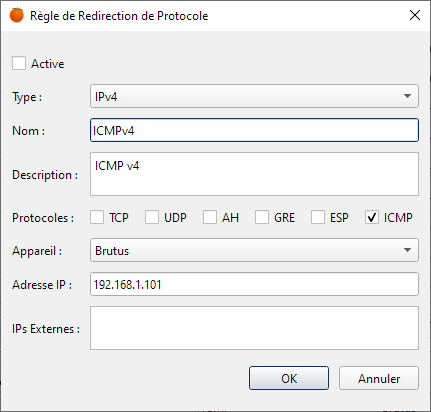
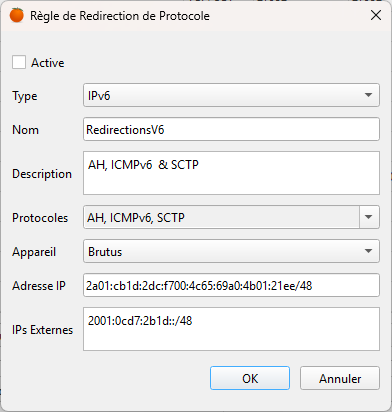
Full protocol list allowed for protocol fwd

diff --git a/src/LiveboxMonitor/dlg/LmPtfRule.py b/src/LiveboxMonitor/dlg/LmPtfRule.py
@@ -8,10 +8,11 @@ from LiveboxMonitor.lang.LmLanguages import get_ptf_rule_label as lx, get_nat_pa
 
 # ################################ PTF rule dialog ################################
 class PtfRuleDialog(QtWidgets.QDialog):
-    def __init__(self, rule=None, parent=None):
+    def __init__(self, rule, parent):
         super().__init__(parent)
         self.resize(390, 380)
 
+        self._app = parent
         self._ignore_signal = False
 
         self._enable_checkbox = QtWidgets.QCheckBox(lx("Enabled"), objectName="enableCheckbox")
@@ -31,26 +32,9 @@ class PtfRuleDialog(QtWidgets.QDialog):
         self._desc_edit.setLineNumber(2)
 
         protocols_label = QtWidgets.QLabel(lx("Protocols"), objectName="protocolsLabel")
-        self._tcp_checkbox = QtWidgets.QCheckBox(lx("TCP"), objectName="tcpCheckbox")
-        self._tcp_checkbox.clicked.connect(self.protocol_click)
-        self._udp_checkbox = QtWidgets.QCheckBox(lx("UDP"), objectName="udpCheckbox")
-        self._udp_checkbox.clicked.connect(self.protocol_click)
-        self._ah_checkbox = QtWidgets.QCheckBox(lx("AH"), objectName="ahCheckbox")
-        self._ah_checkbox.clicked.connect(self.protocol_click)
-        self._gre_checkbox = QtWidgets.QCheckBox(lx("GRE"), objectName="greCheckbox")
-        self._gre_checkbox.clicked.connect(self.protocol_click)
-        self._esp_checkbox = QtWidgets.QCheckBox(lx("ESP"), objectName="espCheckbox")
-        self._esp_checkbox.clicked.connect(self.protocol_click)
-        self._icmp_checkbox = QtWidgets.QCheckBox(lx("ICMP"), objectName="icmpCheckbox")
-        self._icmp_checkbox.clicked.connect(self.protocol_click)
-        protocols_box = QtWidgets.QHBoxLayout()
-        protocols_box.setSpacing(10)
-        protocols_box.addWidget(self._tcp_checkbox, 0, QtCore.Qt.AlignmentFlag.AlignLeft)
-        protocols_box.addWidget(self._udp_checkbox, 0, QtCore.Qt.AlignmentFlag.AlignLeft)
-        protocols_box.addWidget(self._ah_checkbox, 0, QtCore.Qt.AlignmentFlag.AlignLeft)
-        protocols_box.addWidget(self._gre_checkbox, 0, QtCore.Qt.AlignmentFlag.AlignLeft)
-        protocols_box.addWidget(self._esp_checkbox, 0, QtCore.Qt.AlignmentFlag.AlignLeft)
-        protocols_box.addWidget(self._icmp_checkbox, 1, QtCore.Qt.AlignmentFlag.AlignLeft)
+        self._protocols_combo = LmTools.CheckableComboBox(objectName="protocolsCombo")
+        self._protocols_combo.setPlaceholderText(lx("Protocols"))
+        self._protocols_combo.currentTextChanged.connect(self.protocols_click)
 
         device_label = QtWidgets.QLabel(lx("Device"), objectName="deviceLabel")
         self._device_combo = QtWidgets.QComboBox(objectName="deviceCombo")
@@ -75,7 +59,7 @@ class PtfRuleDialog(QtWidgets.QDialog):
         grid.addWidget(desc_label, 3, 0)
         grid.addWidget(self._desc_edit, 3, 1)
         grid.addWidget(protocols_label, 4, 0)
-        grid.addLayout(protocols_box, 4, 1)
+        grid.addWidget(self._protocols_combo, 4, 1)
         grid.addWidget(device_label, 5, 0)
         grid.addWidget(self._device_combo, 5, 1)
         grid.addWidget(ip_label, 6, 0)
@@ -120,12 +104,7 @@ class PtfRuleDialog(QtWidgets.QDialog):
         self.type_selected(i)
         self._name_edit.setText("")
         self._desc_edit.setPlainText("")
-        self._tcp_checkbox.setChecked(False)
-        self._udp_checkbox.setChecked(False)
-        self._ah_checkbox.setChecked(True)
-        self._gre_checkbox.setChecked(False)
-        self._esp_checkbox.setChecked(False)
-        self._icmp_checkbox.setChecked(False)
+        self.load_protocols_combo(self._app._protocol_numbers["AH"])
         self._device_combo.setCurrentIndex(0)
         self._ip_edit.setText("")
         self._ext_ips_edit.setPlainText("")
@@ -144,19 +123,7 @@ class PtfRuleDialog(QtWidgets.QDialog):
         self._name_edit.setText(rule["Name"])
         self._desc_edit.setPlainText(rule["Desc"])
 
-        p = rule["ProtoNames"].split("/")
-
-        self._tcp_checkbox.setChecked(LmPatPtf.PROTOCOL_NAMES[str(LmPatPtf.Protocols.TCP.value)] in p)
-        self._udp_checkbox.setChecked(LmPatPtf.PROTOCOL_NAMES[str(LmPatPtf.Protocols.UDP.value)] in p)
-        self._ah_checkbox.setChecked(LmPatPtf.PROTOCOL_NAMES[str(LmPatPtf.Protocols.AH.value)] in p)
-        self._gre_checkbox.setChecked(LmPatPtf.PROTOCOL_NAMES[str(LmPatPtf.Protocols.GRE.value)] in p)
-        self._esp_checkbox.setChecked(LmPatPtf.PROTOCOL_NAMES[str(LmPatPtf.Protocols.ESP.value)] in p)
-
-        if t == LmPatPtf.RULE_TYPE_IPv6:
-            icmp = LmPatPtf.Protocols.ICMPv6.value
-        else:
-            icmp = LmPatPtf.Protocols.ICMP.value
-        self._icmp_checkbox.setChecked(LmPatPtf.PROTOCOL_NAMES[str(icmp)] in p)
+        self.load_protocols_combo(rule["ProtoNames"])
 
         ip = rule["IP"]
         self._ip_edit.setText(ip)
@@ -167,6 +134,12 @@ class PtfRuleDialog(QtWidgets.QDialog):
         self.set_ok_button_state()
 
 
+    def load_protocols_combo(self, protocols):
+        protocol_numbers, protocol_names = zip(*LmPatPtf.PROTOCOL_NAMES.items())
+        self._protocols_combo.addItems(protocol_names, protocol_numbers)
+        self._protocols_combo.setSelection(protocols.split("/"))
+
+
     def get_rule(self):
         p = self.get_protocols()
         return {
@@ -175,7 +148,7 @@ class PtfRuleDialog(QtWidgets.QDialog):
             "Name": self.get_name(),
             "Desc": self.get_description(),
             "ProtoNames": p,
-            "ProtoNumbers": self.parent().translate_nat_pat_protocols(p),
+            "ProtoNumbers": self._app.translate_nat_pat_protocols(p),
             "IP": self.get_ip(),
             "ExtIPs": self.get_ext_ips()        
         }
@@ -197,7 +170,7 @@ class PtfRuleDialog(QtWidgets.QDialog):
         self.set_ok_button_state()
 
 
-    def protocol_click(self):
+    def protocols_click(self, current_text):
         self.set_ok_button_state()
 
 
@@ -228,13 +201,13 @@ class PtfRuleDialog(QtWidgets.QDialog):
 
     def load_device_list(self):
         t = self.get_type()
-        device_map = self.parent()._device_ip_name_map
+        device_map = self._app._device_ip_name_map
         self._device_combo.clear()
 
         # Load matching devices / IPs
         for i in device_map:
             if device_map[i]["IPVers"] == t:
-                self._device_combo.addItem(self.parent().get_device_name_from_ip(i), userData=i)
+                self._device_combo.addItem(self._app.get_device_name_from_ip(i), userData=i)
 
         # Sort by name
         self._device_combo.model().sort(0)
@@ -252,12 +225,12 @@ class PtfRuleDialog(QtWidgets.QDialog):
         ip = self.get_ip()
         if t == LmPatPtf.RULE_TYPE_IPv6:
             if not LmTools.is_ipv6_pfix(ip):
-                self.parent().display_error(mx("{} is not a valid IPv6 address or prefix.", "ipv6AddrPfixErr").format(ip))
+                self._app.display_error(mx("{} is not a valid IPv6 address or prefix.", "ipv6AddrPfixErr").format(ip))
                 self._ip_edit.setFocus()
                 return
         else:
             if not LmTools.is_ipv4_pfix(ip):
-                self.parent().display_error(mx("{} is not a valid IPv4 address or prefix.", "ipv4AddrPfixErr").format(ip))
+                self._app.display_error(mx("{} is not a valid IPv4 address or prefix.", "ipv4AddrPfixErr").format(ip))
                 self._ip_edit.setFocus()
                 return
 
@@ -267,18 +240,18 @@ class PtfRuleDialog(QtWidgets.QDialog):
             ext_ips = e.split(",")
             for ip in ext_ips:
                 if len(ip) == 0:
-                    self.parent().display_error(mx("Empty IP address.", "emptyAddr"))
+                    self._app.display_error(mx("Empty IP address.", "emptyAddr"))
                     self._ext_ips_edit.setFocus()
                     return
 
                 if t == LmPatPtf.RULE_TYPE_IPv6:
                     if not LmTools.is_ipv6_pfix(ip):
-                        self.parent().display_error(mx("{} is not a valid IPv6 address or prefix.", "ipv6AddrPfixErr").format(ip))
+                        self._app.display_error(mx("{} is not a valid IPv6 address or prefix.", "ipv6AddrPfixErr").format(ip))
                         self._ext_ips_edit.setFocus()
                         return
                 else:
                     if not LmTools.is_ipv4_pfix(ip):
-                        self.parent().display_error(mx("{} is not a valid IPv4 address or prefix.", "ipv4AddrPfixErr").format(ip))
+                        self._app.display_error(mx("{} is not a valid IPv4 address or prefix.", "ipv4AddrPfixErr").format(ip))
                         self._ext_ips_edit.setFocus()
                         return
 
@@ -302,31 +275,7 @@ class PtfRuleDialog(QtWidgets.QDialog):
 
 
     def get_protocols(self):
-        protocols = []
-
-        if self._tcp_checkbox.isChecked():
-            protocols.append(LmPatPtf.PROTOCOL_NAMES[str(LmPatPtf.Protocols.TCP.value)])
-
-        if self._udp_checkbox.isChecked():
-            protocols.append(LmPatPtf.PROTOCOL_NAMES[str(LmPatPtf.Protocols.UDP.value)])
-
-        if self._ah_checkbox.isChecked():
-            protocols.append(LmPatPtf.PROTOCOL_NAMES[str(LmPatPtf.Protocols.AH.value)])
-
-        if self._gre_checkbox.isChecked():
-            protocols.append(LmPatPtf.PROTOCOL_NAMES[str(LmPatPtf.Protocols.GRE.value)])
-
-        if self._esp_checkbox.isChecked():
-            protocols.append(LmPatPtf.PROTOCOL_NAMES[str(LmPatPtf.Protocols.ESP.value)])
-
-        if self._icmp_checkbox.isChecked():
-            if self.get_type() == LmPatPtf.RULE_TYPE_IPv6:
-                icmp = LmPatPtf.Protocols.ICMPv6.value
-            else:
-                icmp = LmPatPtf.Protocols.ICMP.value
-            protocols.append(LmPatPtf.PROTOCOL_NAMES[str(icmp)])
-
-        return "/".join(protocols)
+        return "/".join(self._protocols_combo.currentSelection())
 
 
     def get_ip(self):

diff --git a/src/LiveboxMonitor/tabs/LmNatPatTab.py b/src/LiveboxMonitor/tabs/LmNatPatTab.py
@@ -253,8 +253,8 @@ class LmNatPat:
                 try:
                     new_rule = dialog.get_rule()
 
-                    # Delete old rule if ID changed
-                    if rule["Name"] != new_rule["Name"]:
+                    # Delete old rule if ID or type changed
+                    if (rule["Name"] != new_rule["Name"]) or (rule["Type"] != new_rule["Type"]):
                         self.del_pat_rule(rule)
 
                     # Then save new one
@@ -464,8 +464,8 @@ class LmNatPat:
                 try:
                     new_rule = dialog.get_rule()
 
-                    # Delete old rule if ID changed
-                    if rule["Name"] != new_rule["Name"]:
+                    # Delete old rule if ID or type changed
+                    if (rule["Name"] != new_rule["Name"]) or (rule["Type"] != new_rule["Type"]):
                         self.del_ptf_rule(rule)
 
                     # Then save new one
@@ -1111,21 +1111,7 @@ class LmNatPat:
             return False
 
         for p in protocols.split(","):
-            n = LmPatPtf.PROTOCOL_NAMES.get(p)
-            if n is None:
-                LmTools.error(f"Rule has wrong protocol {p} set.")
-                return False
-            n = int(p)
-            if t == LmPatPtf.RULE_TYPE_IPv6:
-                icmp = LmPatPtf.Protocols.ICMPv6
-            else:
-                icmp = LmPatPtf.Protocols.ICMP
-            if ((n != LmPatPtf.Protocols.TCP) and
-                (n != LmPatPtf.Protocols.UDP) and
-                (n != LmPatPtf.Protocols.AH) and
-                (n != LmPatPtf.Protocols.GRE) and
-                (n != LmPatPtf.Protocols.ESP) and
-                (n != icmp)):
+            if LmPatPtf.PROTOCOL_NAMES.get(p) is None:
                 LmTools.error(f"Rule has wrong protocol {p} set.")
                 return False
 

diff --git a/src/LiveboxMonitor/lang/LmLanguage_FR.py b/src/LiveboxMonitor/lang/LmLanguage_FR.py
@@ -1433,12 +1433,7 @@ TOOLTIPS = {
         "nameEdit": "Nom unique de la règle. Si une règle du même nom existe déjà elle\n"
                     "sera écrasée.",
         "descEdit": "Description de la règle.",
-        "tcpCheckbox": "Redirige ou pas le trafic TCP.",
-        "udpCheckbox": "Redirige ou pas le trafic UDP.",
-        "ahCheckbox": "Redirige ou pas le trafic AH.",
-        "greCheckbox": "Redirige ou pas le trafic GRE.",
-        "espCheckbox": "Redirige ou pas le trafic ESP.",
-        "icmpCheckbox": "Redirige ou pas le trafic ICMP (v4 ou v6 en fonction du type).",
+        "protocolsCombo": "Sélectionnez les protocoles à rediriger.",
         "deviceCombo": "Appareil sur lequel le trafic doit être redirigé.",
         "ipEdit": "Addresse IP (v4 ou v6 en fonction du type) sur laquelle le trafic doit\n"
                   "être redirigé. Il est aussi possible d'indiquer un préfix.",

diff --git a/src/LiveboxMonitor/lang/LmLanguage_EN.py b/src/LiveboxMonitor/lang/LmLanguage_EN.py
@@ -419,12 +419,7 @@ TOOLTIPS = {
         "nameEdit": "Unique name for the rule. If a rule with the same name already exists,\n"
                     "it will be overwritten.",
         "descEdit": "Description of the rule.",
-        "tcpCheckbox": "Redirects TCP traffic or not.",
-        "udpCheckbox": "Redirects UDP traffic or not.",
-        "ahCheckbox": "Redirects AH traffic or not.",
-        "greCheckbox": "Redirects GRE traffic or not.",
-        "espCheckbox": "Redirects ESP traffic or not.",
-        "icmpCheckbox": "Redirects ICMP traffic (v4 or v6 depending on the type) or not.",
+        "protocolsCombo": "Select the protocols to redirect.",
         "deviceCombo": "Device to which the traffic should be redirected.",
         "ipEdit": "IP address (v4 or v6 depending on the type) to which the traffic\n"
                   "should be redirected. It is also possible to specify a prefix.",

diff --git a/src/LiveboxMonitor/lang/LmLanguage_XX.py b/src/LiveboxMonitor/lang/LmLanguage_XX.py
@@ -639,12 +639,6 @@ LABELS = {
         "Name": "",
         "Description": "",
         "Protocols": "",
-        "TCP": "",
-        "UDP": "",
-        "AH": "",
-        "GRE": "",
-        "ESP": "",
-        "ICMP": "",
         "Device": "",
         "IP Address": "",
         "External IPs": "",
@@ -1522,12 +1516,7 @@ TOOLTIPS = {
         "descLabel": "",
         "descEdit": "",
         "protocolsLabel": "",
-        "tcpCheckbox": "",
-        "udpCheckbox": "",
-        "ahCheckbox": "",
-        "greCheckbox": "",
-        "espCheckbox": "",
-        "icmpCheckbox": "",
+        "protocolsCombo": "",
         "deviceLabel": "",
         "deviceCombo": "",
         "ipLabel": "",
